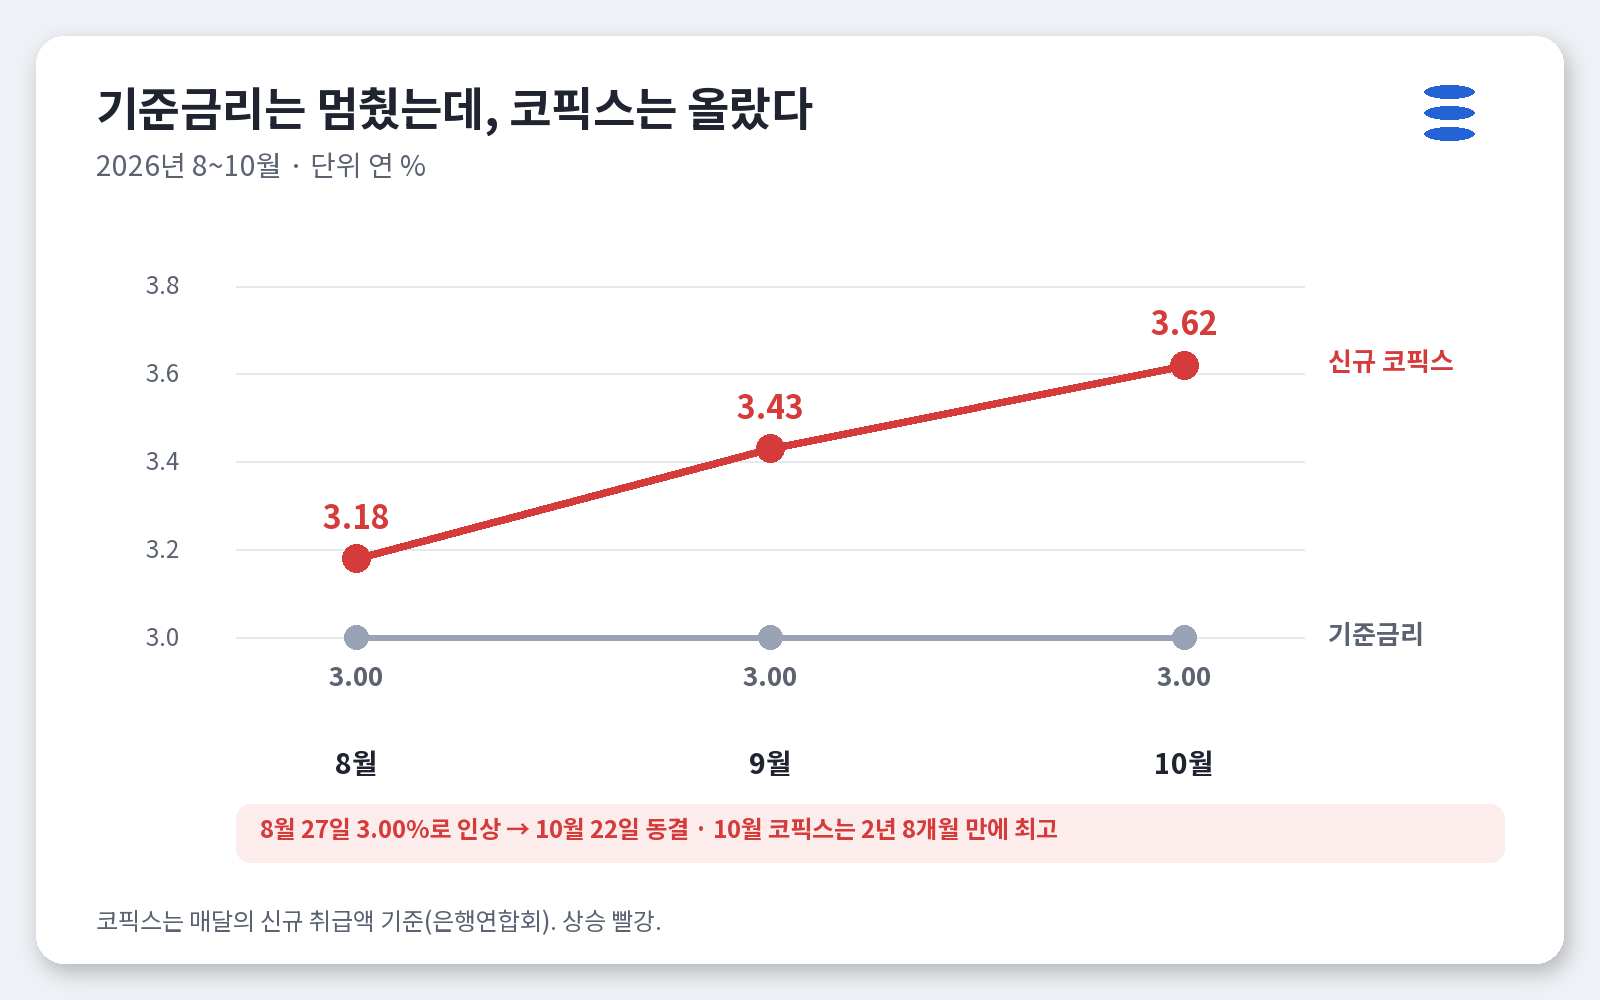
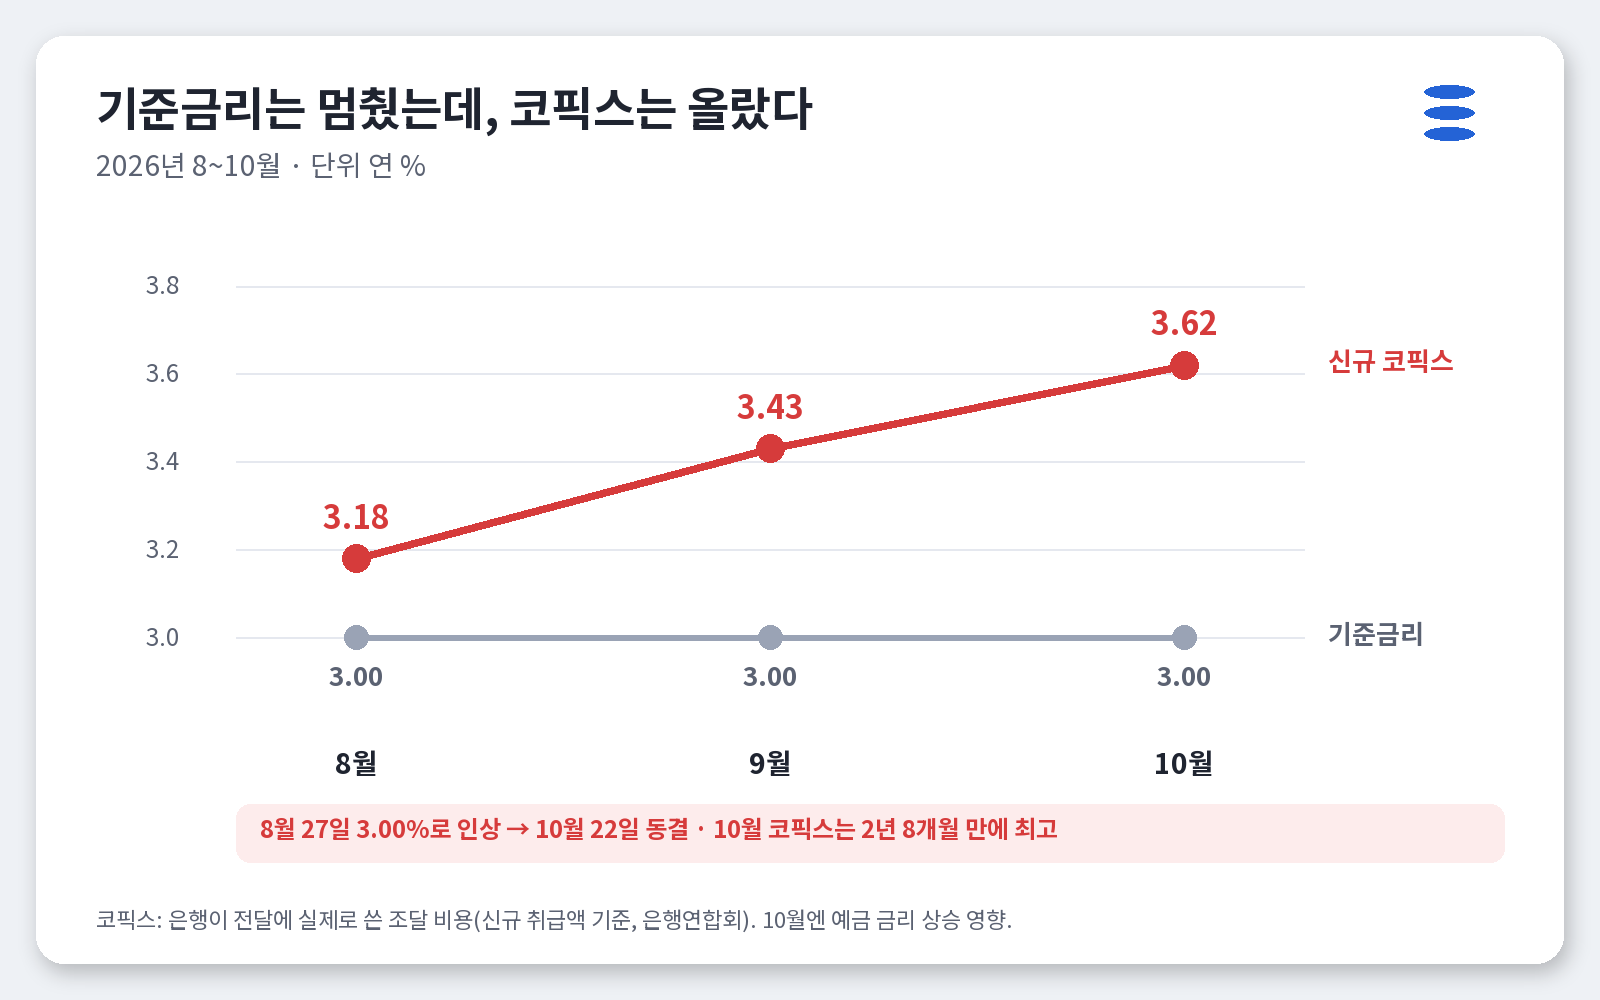
기준금리 글 외부 검수 반영: 코픽스 상승 원인을 실제 조달 비용으로, 계산 가정 명시
- 10월 코픽스 상승은 예금 금리 상승 영향, 기준금리 전망은 별도 요인으로 구분
- 45,774원은 특정 조건 예시라고 밝힘, '11월 17일 현재' 표기, 변동금리 비중 9월 65.8%로 갱신
- 이미지 02·04 문구 수정, AGENTS.md에 금리 글 기준 기록

Changed region(s): [[0.0625, 0.899, 0.625, 0.93]]

diff --git a/문서/티스토리-이코노미가이드/20261117_기준금리-대출이자/index.html b/문서/티스토리-이코노미가이드/20261117_기준금리-대출이자/index.html
@@ -5,7 +5,7 @@
 [글 제목] 기준금리 0.25%p, 내 주담대 이자는 한 달에 얼마 늘까? 직접 계산해 봤습니다
 [태그] 기준금리, 금통위, 주담대금리, 코픽스, 변동금리, 고정금리, 대출이자계산, 원리금균등, 금리인상, 영끌
 [검색 설명] 11월 26일 금통위를 앞두고 기준금리 인상 가능성이 커졌습니다. 기준금리가 내 대출 금리로 이어지는 순서, 코픽스와 변동 주기, 3억 원 대출에서 금리 0.25%p가 만드는 월 상환액 차이를 직접 계산해 정리했습니다.
-[글자 수] 본문 공백 포함 3,935자 / 공백 제외 3,018자 (빨간 글씨 이미지 표시·줄바꿈 제외)
+[글자 수] 본문 공백 포함 4,443자 / 공백 제외 3,403자 (빨간 글씨 이미지 표시·줄바꿈 제외, 2026.11.17 검수 반영 후)
 [추천 발행 시기] 2026년 11월 18~25일(금통위 11월 26일 전). 발표 뒤에 올리면 도입과 '26일에는' 단락을 결과에 맞게 고친다.
 
 [사용 방법]
@@ -39,6 +39,15 @@
   : 9월 신규 코픽스 3.43%(+0.25%p, 2년 3개월 만에 최고), 4~7월 넉 달 상승 후 8월 3.18% 유지,
     8월 신규 주택담보대출의 64.7%가 변동금리, 2021년 저금리 대출의 금리 재산정 시점이 맞물림.
 - 11월 인상 가능성: 11/17 보도 제목("한은, 이달 기준금리 0.25%p 인상 가능성 커져")과 해외 증권사 전망(11월 3.25%) 수준. 결정 전이므로 본문은 '가능성'으로만 썼다.
+- 머니투데이 2026.11.16 16:44 「"변동금리 더 싸다더니"…시장금리 내릴 때 또 오른 변동형 주담대」 원문 확인
+  https://www.mt.co.kr/finance/2026/11/16/2026111616275049949
+  : 코픽스는 전월 실제 조달한 예·적금·은행채 비용 반영, 장기 금융채 금리가 내려도 예금금리 인상으로 조달비용이 높아지면 변동형은 오를 수 있음,
+    은행채 금리는 9월까지 국내외 인상 전망으로 상승했으나 10월 이후 국고채 발행 축소·증시 불안으로 하락, 예금 유치 경쟁(최고 4.0% 특판 5000억 원 조기 소진 후 추가 특판),
+    5년 고정형 하단 4.89(9/15)→4.67(10/16)→4.46%(11/16), 한국은행 집계 9월 신규 주담대 변동금리 비중 65.8%.
+- [검수 반영 2026.11.17] 코픽스 상승 원인을 '기준금리 인상 기대'와 바로 잇지 않고 '실제 조달 비용(특히 예금 금리) 상승'으로, 기준금리 전망은 시장금리에 영향을 주는 별도 요인으로 구분.
+  도입의 45,774원이 '특정 조건 예시'이며 기준금리 인상분이 그대로 반영된다는 뜻이 아님을 밝힘. '인상 가능성'은 11월 17일 기준이라고 본문에 밝힘.
+  변동금리 비중은 8월 64.7% 대신 더 최근인 9월 65.8%(한국은행 집계)로 바꿈. 변동형>고정형 역전 이유에 은행채 금리 하락 추가.
+  ※ 11월 26일 금통위 뒤에 발행한다면 도입·'26일에 오르면' 단락·'26일 결과가 인상이든 동결이든' 문장을 실제 결정에 맞게 고친다.
 - 계산(이 저장소에서 직접 실행): 원리금균등 월 상환액 = P·m(1+m)^n / ((1+m)^n − 1), m = 연 금리/12.
   3억 원·30년(360회): 4.66% 1,548,709원 / 4.85% 1,583,075원 / 5.10% 1,628,849원 / 5.35% 1,675,241원 / 5.60% 1,722,237원.
   4.85→5.10%: 월 +45,774원, 연 +549,286원. 4.66→4.85%(0.19%p): 월 +34,367원. 4.85%의 첫 달 이자 1,212,500원.
@@ -57,9 +66,9 @@
 
 <p style="color:#e60000;font-weight:bold;">[[ 이미지: 타이틀 - 기준금리 0.25%p, 내 이자는? (01-타이틀.png) ]]</p>
 
-<p><b>45,774원.</b> 3억 원을 30년 동안 원리금균등 방식으로 빌린 사람에게, 대출 금리가 연 4.85%에서 5.10%로 0.25%포인트 오르면 늘어나는 한 달 상환액입니다. 1년이면 약 55만 원입니다.</p>
+<p><b>45,774원.</b> 3억 원을 30년 동안 원리금균등 방식으로 빌린 사람에게, 대출 금리가 연 4.85%에서 5.10%로 0.25%포인트 오른다고 가정해 계산한 한 달 상환액 차이입니다. 1년이면 약 55만 원입니다. 다만 이건 특정 조건을 넣은 예시일 뿐, 기준금리가 0.25%포인트 오르면 모든 대출 이자가 이만큼 오른다는 뜻은 아닙니다. 왜 그런지는 아래에서 차례로 풀어 보겠습니다.</p>
 
-<p>이 숫자를 계산해 본 건 요즘 금리 뉴스가 부쩍 늘었기 때문입니다. 한국은행이 11월 26일 금융통화위원회에서 기준금리를 0.25%포인트 올릴 가능성이 커졌다는 이야기가 나오고, 대출 이자 부담을 다룬 기사가 많이 읽히고 있습니다. 그런데 "기준금리가 오른다"는 소식과 "내 이자가 오른다"는 일 사이에는 생각보다 여러 단계가 있습니다. 언제, 얼마나 내 대출에 닿는지 순서대로 따라가 봤습니다.</p>
+<p>이 숫자를 계산해 본 건 요즘 금리 뉴스가 부쩍 늘었기 때문입니다. 이 글을 쓰는 11월 17일 현재, 한국은행이 11월 26일 금융통화위원회에서 기준금리를 0.25%포인트 올릴 가능성이 커졌다는 이야기가 나오고, 대출 이자 부담을 다룬 기사가 많이 읽히고 있습니다. 그런데 "기준금리가 오른다"는 소식과 "내 이자가 오른다"는 일 사이에는 생각보다 여러 단계가 있습니다. 언제, 얼마나 내 대출에 닿는지 순서대로 따라가 봤습니다.</p>
 
 <p>&nbsp;</p>
 <hr style="border:none;border-top:1px solid #cfcfcf;margin:8px 0;">
@@ -67,7 +76,7 @@
 
 <p>한국은행이 정하는 기준금리는 내 대출 금리에 바로 찍혀 나오지 않습니다. 몇 정거장을 거쳐 옵니다.</p>
 
-<p><b>첫 정거장은 시장금리입니다.</b> 기준금리가 오르거나 오를 것 같으면 은행이 파는 예금 금리, 은행이 돈을 빌리려고 발행하는 은행채 금리가 함께 움직입니다.</p>
+<p><b>첫 정거장은 시장금리입니다.</b> 기준금리가 오르거나 오를 것 같으면 은행이 파는 예금 금리, 은행이 돈을 빌리려고 발행하는 은행채 금리가 영향을 받습니다. 다만 시장금리는 기준금리 말고도 국채 발행량, 증시 분위기, 은행끼리의 예금 유치 경쟁 같은 여러 이유로 움직입니다.</p>
 
 <p><b>두 번째는 코픽스(COFIX)입니다.</b> 코픽스는 국내 8개 은행이 예금, 적금, 은행채 등으로 돈을 모으는 데 든 평균 금리입니다. 은행 입장에서는 '돈을 들여오는 원가'라고 보면 됩니다. 은행연합회가 매달 중순에 발표합니다.</p>
 
@@ -85,11 +94,13 @@
 
 <p style="color:#e60000;font-weight:bold;">[[ 이미지: 은행 창구에서 대출 서류를 살펴보는 손 (03-대출-상담-실사.png) ]]</p>
 
-<p>기준금리가 멈춰 있는데 왜 코픽스가 올랐을까요? 시장은 앞날을 미리 반영하기 때문입니다. "다음 회의에서 기준금리가 오를 것 같다"는 예상이 커지면 은행채 같은 시장금리가 먼저 오르고, 은행이 돈을 모으는 비용도 따라 오릅니다. 그래서 실제 기준금리 결정이 나오기 전에 이미 대출 금리가 움직이기 시작합니다.</p>
+<p>기준금리가 멈춰 있는데 왜 코픽스가 올랐을까요? 코픽스는 기준금리 전망이 아니라, 은행이 그 전달에 실제로 돈을 모으는 데 쓴 비용을 반영하기 때문입니다. 10월에는 은행채 금리가 오히려 내려갔다고 합니다. 그런데 은행들이 예금을 끌어오려고 경쟁하면서 정기예금 금리를 올렸고, 이 예금 비용이 늘어 코픽스가 올랐다는 설명입니다. 연 4%대 특판 예금이 금세 다 팔렸다는 소식도 이 무렵 나왔습니다.</p>
+
+<p>기준금리 전망은 이와 따로 시장금리에 영향을 주는 요인입니다. 9월까지는 국내외 금리 인상 전망이 은행채 금리를 끌어올렸지만, 10월 이후에는 국채 발행 축소와 증시 불안으로 안전한 채권을 찾는 수요가 늘어 은행채 금리가 내려갔다고 합니다. 이렇게 같은 시기에도 예금 금리와 은행채 금리가 서로 다른 방향으로 움직일 수 있습니다.</p>
 
 <p style="color:#e60000;font-weight:bold;">[[ 이미지: 기준금리와 신규 코픽스 비교 (04-기준금리와-코픽스.png) ]]</p>
 
-<p>거꾸로 말하면, 26일에 기준금리가 0.25%포인트 오른다고 해서 내 대출 금리가 딱 0.25%포인트 오른다는 보장도 없습니다. 이미 일부가 코픽스에 들어와 있을 수 있고, 은행마다 가산금리를 조정하기도 합니다. 기준금리와 대출 금리는 같은 방향으로 움직이는 경우가 많지만, 같은 폭으로 움직인다고 단정할 수는 없습니다.</p>
+<p>거꾸로 말하면, 26일에 기준금리가 0.25%포인트 오른다고 해서 내 대출 금리가 딱 0.25%포인트 오른다는 보장도 없습니다. 코픽스는 예금·은행채 등 실제 조달 비용에 따라 움직이고, 은행마다 가산금리를 조정하기도 합니다. 기준금리와 대출 금리는 같은 방향으로 움직이는 경우가 많지만, 같은 폭으로 움직인다고 단정할 수는 없습니다.</p>
 
 <p>&nbsp;</p>
 <hr style="border:none;border-top:1px solid #cfcfcf;margin:8px 0;">
@@ -119,11 +130,11 @@
 
 <p style="color:#e60000;font-weight:bold;">[[ 이미지: 달력에 표시한 금리 재산정일과 대출 이자 고지서 (06-달력-고지서-실사.png) ]]</p>
 
-<p>대출 종류에 따라서도 다릅니다. 금리가 처음부터 끝까지 정해진 고정형 대출은 기준금리가 올라도 이자가 바뀌지 않습니다. 혼합형은 고정 기간이 남아 있는 동안은 그대로입니다. 반대로 이번 달에 새로 변동형 대출을 받는 사람은 이미 오른 코픽스를 적용받습니다. 8월에 새로 나간 주택담보대출 가운데 64.7%가 변동금리였다고 하니, 금리 변화를 직접 겪는 사람이 적지 않은 셈입니다.</p>
+<p>대출 종류에 따라서도 다릅니다. 금리가 처음부터 끝까지 정해진 고정형 대출은 기준금리가 올라도 이자가 바뀌지 않습니다. 혼합형은 고정 기간이 남아 있는 동안은 그대로입니다. 반대로 이번 달에 새로 변동형 대출을 받는 사람은 이미 오른 코픽스를 적용받습니다. 한국은행 집계로 9월에 새로 나간 주택담보대출 가운데 65.8%가 변동금리였다고 하니, 금리 변화를 직접 겪는 사람이 적지 않은 셈입니다.</p>
 
 <h3 style="font-size:19px;margin:24px 0 10px;">변동형이 고정형보다 비싸진 은행도 있다</h3>
 
-<p>요즘 눈에 띄는 일이 하나 더 있습니다. 보통은 앞으로의 금리 위험까지 감안한 고정형 금리가 변동형보다 높습니다. 그런데 17일부터 한 은행에서는 6개월 변동형 금리가 연 5.04~6.24%로 올라 5년 고정형(4.94~6.14%)보다 높아졌다고 합니다. 코픽스가 짧은 기간에 빠르게 오르면서 생긴 일입니다.</p>
+<p>요즘 눈에 띄는 일이 하나 더 있습니다. 보통은 앞으로의 금리 위험까지 감안한 고정형 금리가 변동형보다 높습니다. 그런데 17일부터 한 은행에서는 6개월 변동형 금리가 연 5.04~6.24%로 올라 5년 고정형(4.94~6.14%)보다 높아졌다고 합니다. 변동형이 따르는 코픽스는 예금 금리 상승으로 오른 반면, 고정형 금리는 주로 채권 시장 금리를 따르는데 10월 이후 은행채 금리가 내려가면서 방향이 엇갈린 결과로 풀이됩니다.</p>
 
 <p>그렇다고 "지금 고정형으로 갈아타야 한다"고 단순하게 말하기는 어렵습니다. 기존 대출을 바꾸면 중도상환수수료나 새 대출 비용이 들 수 있고, 앞으로 금리가 내려가면 고정형이 오히려 불리해질 수도 있습니다. 고정형과 변동형 가운데 무엇이 나은지는 남은 기간, 수수료, 앞으로의 금리 흐름에 따라 사람마다 다릅니다.</p>
 

diff --git a/AGENTS.md b/AGENTS.md
@@ -142,11 +142,13 @@
 - 히스토리 가이드 후보(2026-11-15 제안, 4번 수능의 역사는 작성함): 한지 유네스코 등재(최종 결정 11.30~12.5 정부간위원회) / 김장 문화의 역사(김장철) / 단종과 영월 청령포('왕과 사는 남자' 흥행) / 순국선열의 날.
 
 ## 진행 상황 (2026-11-17 기준)
-- 2026-11-17: 이코노미 가이드 여섯 번째 글 `문서/티스토리-이코노미가이드/20261117_기준금리-대출이자/index.html` 작성("기준금리 0.25%p, 내 주담대 이자는 한 달에 얼마 늘까? 직접 계산해 봤습니다", 분류 `금리 | 대출`(사용자가 새로 만들기로 함), 공백 포함 3,935자). 사용자가 추천 5개 중 1번을 골랐다. **11월 26일 금통위 전(11/18~25) 발행.**
+- 2026-11-17: 이코노미 가이드 여섯 번째 글 `문서/티스토리-이코노미가이드/20261117_기준금리-대출이자/index.html` 작성("기준금리 0.25%p, 내 주담대 이자는 한 달에 얼마 늘까? 직접 계산해 봤습니다", 분류 `금리 | 대출`(사용자가 새로 만들기로 함), 검수 반영 후 공백 포함 4,443자). 사용자가 추천 5개 중 1번을 골랐다. **11월 26일 금통위 전(11/18~25) 발행.**
   - 근거: 한국은행 공식 페이지(기준금리 2026.8.27 3.00%, 10.22 동결, 11월 회의 26일), 10월 신규 코픽스 3.62%(+0.19%p, 2년 8개월 만에 최고, 17일 반영, 일부 은행 6개월 변동형이 5년 고정형보다 높아짐), 9월 3.43%·8월 3.18%, 8월 신규 주담대 64.7% 변동금리. 코픽스 연속 상승 기간은 보도마다 달라 쓰지 않았다.
   - 계산은 직접 실행(원리금균등): 3억·30년 4.85→5.10%면 월 +45,774원·연 +549,286원, 4.66→4.85% 월 +34,367원, 가정 예시 4억·2.7%·5년 뒤 잔액 3억 5,365만 원을 4.85%로 재산정하면 월 약 162만→204만 원. 실제 상환액은 다를 수 있다고 밝힘. 고정/변동 전환을 권하지 않았다.
   - 구성: 계산 결과 숫자 "45,774원."으로 시작 → 네 정거장(시장금리·코픽스·내 금리·재산정일) → 기준금리는 멈췄는데 코픽스는 오름 → 숫자로 계산(h3 저금리 때 빌린 경우) → 26일에 오르면 바로 오를까(h3 변동형이 고정형보다 비싸진 은행) → 발표 전 볼 것 → 마지막 소제목 "0.25%p를 내 돈으로 바꿔 보는 연습".
   - 이미지 8장: AI 02 네 정거장(파노라마 12:5, 왼쪽 띠)·04 기준금리와 코픽스 선 차트(16:10, 카드)·05 금리별 월 상환액 표(세로 4:5, 겹선)·07 내 대출 확인(1:1, 점선)은 `images/`에 있다. ChatGPT 요청: 01 타이틀(3D 집·계산기, 세로 3:4, 주황 테두리)·03 대출 상담(16:9)·06 달력·고지서(3:2)·08 저녁 아파트(4:5).
+  - 2026-11-17 외부 검수 반영(코픽스·은행채·예금금리 흐름 기사 원문 확인): 코픽스 상승을 '기준금리 인상 기대'와 바로 잇지 않고 '은행이 전달에 실제로 쓴 조달 비용, 특히 예금 금리 상승(예금 유치 경쟁)'으로 설명하고, 10월엔 은행채 금리가 오히려 내렸다는 점과 기준금리 전망은 시장금리에 영향을 주는 별도 요인임을 나눠 씀. 도입의 45,774원은 '특정 조건 예시, 기준금리 인상분이 그대로 반영된다는 뜻 아님'을 밝히고, '인상 가능성'에 '11월 17일 현재'를 붙임. 변동금리 비중은 9월 65.8%(한국은행 집계)로 갱신, 변동형>고정형 역전 이유에 은행채 금리 하락 추가. 이미지 02·04 문구도 고쳤다. **금통위(11/26) 뒤 발행하면 도입·'26일에 오르면' 단락을 실제 결정에 맞게 고친다.**
+  - **금리 글 기준(위 검수에서 배운 점)**: 지표(코픽스 등)의 움직임을 기준금리 전망 하나로 설명하지 않는다. 그 지표가 무엇을 실제로 반영하는지(전달 조달 비용, 예금·은행채)를 먼저 쓰고, 기대·전망은 별도 요인으로 나눈다. 계산 예시는 '가정'임을 첫 숫자 옆에 바로 밝힌다. 일정이 걸린 전망은 '○월 ○일 현재'를 붙인다.
   - ChatGPT 이미지 4장(01 3D 집·계산기 타이틀 세로 3:4·주황 테두리, 03 대출 상담 16:9, 06 달력·고지서 3:2, 08 저녁 아파트 4:5)을 사용자가 `images/`에 넣었고 비율·글자·내용을 확인했다(로고·얼굴 없음, 상승 화살표 빨강). 이미지 8장 완료, 대기 중인 요청 없음. 남은 일은 사용자의 티스토리 발행뿐이다(11/26 전, `금리 | 대출` 분류를 먼저 만든다).
 - 2026-11-17: 이코노미 가이드 다섯 번째 글 `문서/티스토리-이코노미가이드/20261117_코스피-급락-환율-하락/index.html` 작성("코스피 급락 날 원화가 버틴 이유, 반도체가 번 달러에 답이 있다", 분류 주식 | 환율, 검수 반영 후 공백 포함 4,467자). 사용자가 "이코노미가이드에 쓸 글 추천"을 요청해 네이트 경제 관심뉴스(11/17)와 11/16~17 기사로 4개를 제안했고 2번을 골랐다.
   - 근거: 11/16 외환시장 기사 원문(1335.7원, -1.0원, 장중 1332.9~1338.6, 코스피 -3.59%, 외국인 1조3837억 순매도, 미 10년물 5.1%대, 달러인덱스 +0.06%, 반도체 네고, 연말 북클로징, 엔화 160엔·개입 경계, 이달 미국 주식 순매수 약 30억 달러), 관세청 11월 1~10일 수출(334.6억 달러 +111.9%, 반도체 166.3억 +331.2%, 비중 49.7%, 누적 9,637억). 11/17 환율은 출처마다 기준이 달라 쓰지 않았다. 출처는 발행 메모에만.
